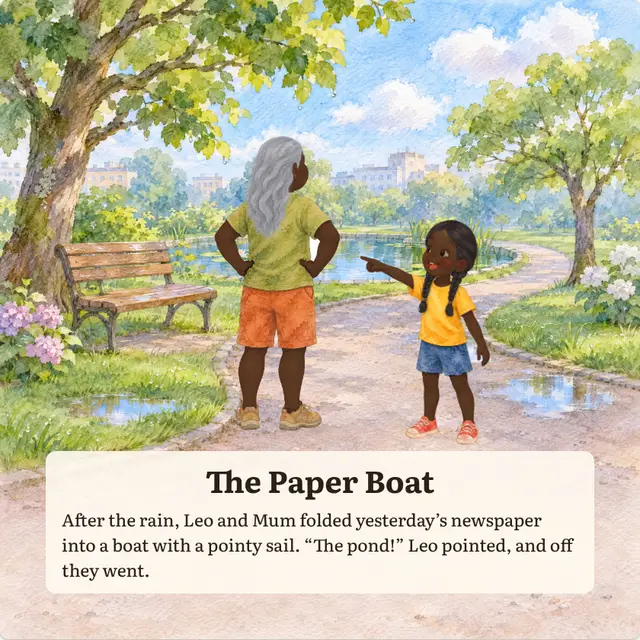
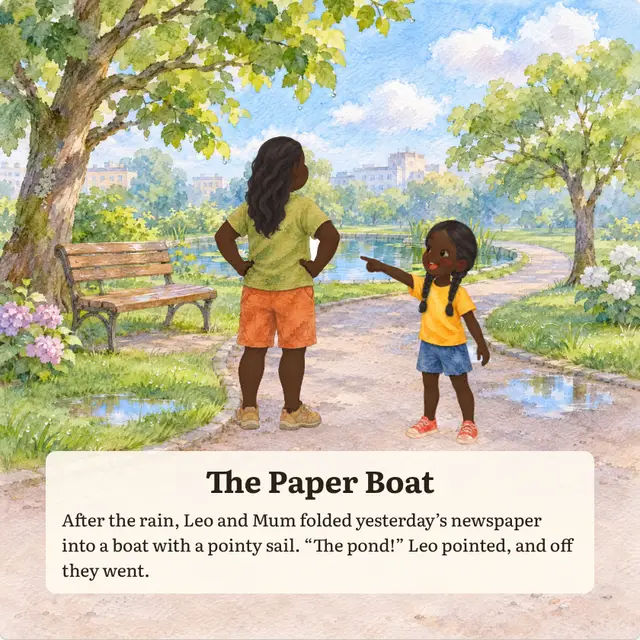
Landing sample: the darker-skinned parent is Mum with long black hair
Paper Boat sample 2's grown-up is now an adult with black hair (skin:s5, as
before) instead of a grandmother with grey hair, per Sid. Social preview and alt
text follow.

Amp-Thread-ID: https://ampcode.com/threads/T-01a1f6ae-d33a-709a-9aea-0f0f43e89e7d

Changed region(s): [[0.375, 0.1875, 0.5, 0.375]]

diff --git a/apps/web/src/components/landing.tsx b/apps/web/src/components/landing.tsx
@@ -71,7 +71,7 @@ export function Landing() {
               />
               <img
                 src="/marketing/paper-boat-family-2.webp"
-                alt="The same page drawn with a dark-skinned girl with black braids and her grandmother with long grey hair"
+                alt="The same page drawn with a dark-skinned girl with black braids and her mum, who has long black hair"
                 width={640}
                 height={640}
                 fetchPriority="high"
